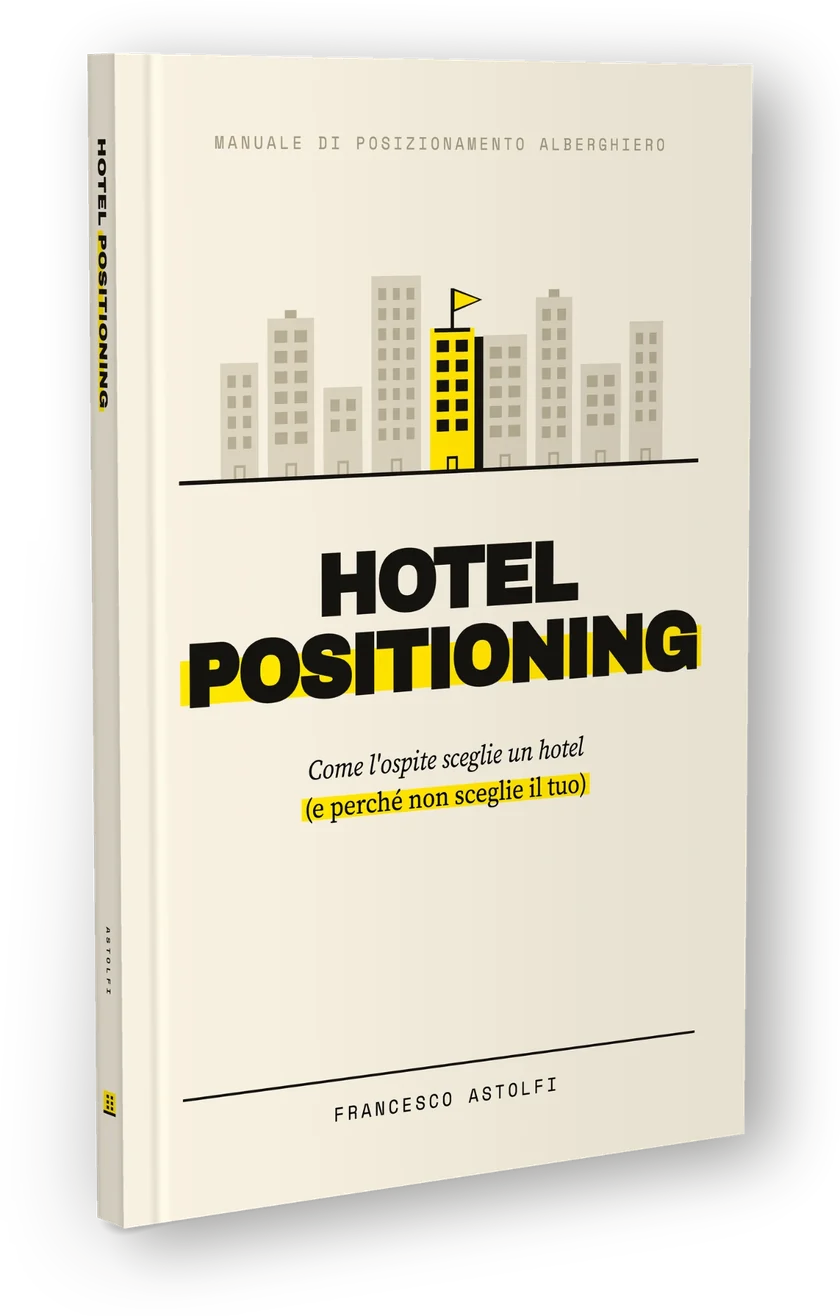
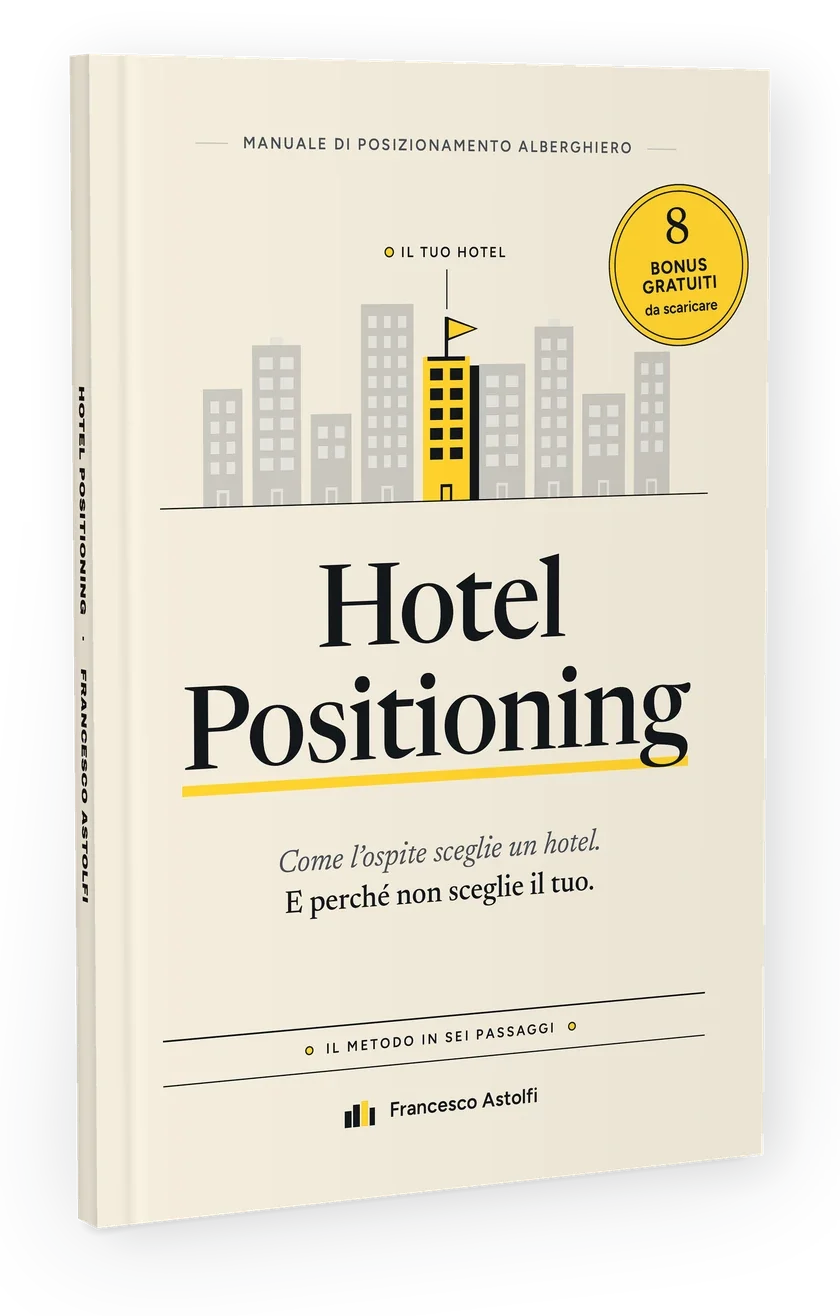
Copertina nuova del libro su tutto il sito (file con nome nuovo per non restare in cache)
libro-copertina.webp / @2x e libro-copertina-og.jpg al posto di libro-hotel-positioning
e libro-og.jpg; i vecchi file restano, con la copertina nuova, per le mail già inviate.

Claude-Session: https://claude.ai/code/session_01JA4Hpfw1L8q9e38L2BPrhj

Changed region(s): [[0.0619, 0.0312, 0.9286, 0.9658], [0.7429, 0.7789, 0.8357, 0.81]]

diff --git a/site/public/en/book/index.html b/site/public/en/book/index.html
@@ -7,7 +7,7 @@
 <meta name="description" content="Francesco Astolfi's handbook on hotel positioning, available in Italian only. 120 pages, a method in 6 steps, 200 attributes to set your hotel apart from similar ones. €19.90 on Amazon.it, Kindle too.">
 <link rel="canonical" href="https://hotelpositioning.com/en/book/">
 <meta property="og:title" content="Hotel Positioning: the method in six steps to get your hotel chosen."><meta property="og:description" content="Hotel Positioning, the handbook on hotel positioning (Italian edition). The method in six steps, the Silva and Veridia cases, 200 attributes. €19.90 on Amazon.it."><meta property="og:type" content="website">
-<meta property="og:image" content="https://hotelpositioning.com/assets/img/libro-og.jpg">
+<meta property="og:image" content="https://hotelpositioning.com/assets/img/libro-copertina-og.jpg">
 <script>/* ID di tracciamento: lasciare vuoto per disattivare. Partono solo dopo il consenso (vedi /assets/consent.js). */
 window.HP_TRACKING = { gtm: 'GTM-WPD3MZLM', ga4: '', metaPixel: '' };</script>
 <meta name="theme-color" content="#fffdf6">
@@ -16,12 +16,12 @@ window.HP_TRACKING = { gtm: 'GTM-WPD3MZLM', ga4: '', metaPixel: '' };</script>
 <link rel="preload" href="/assets/fonts/figtree.woff2" as="font" type="font/woff2" crossorigin>
 <meta property="og:site_name" content="Hotel Positioning">
 <meta property="og:locale" content="en_GB">
-<meta name="twitter:image" content="https://hotelpositioning.com/assets/img/libro-og.jpg">
+<meta name="twitter:image" content="https://hotelpositioning.com/assets/img/libro-copertina-og.jpg">
 <meta name="twitter:card" content="summary_large_image">
 <link rel="stylesheet" href="/assets/style.css?v=b3a8d31d">
 
 <script type="application/ld+json">
-{"@context":"https://schema.org","@type":"Book","name":"Hotel Positioning","alternativeHeadline":"Come l'ospite sceglie un hotel (e perché non sceglie il tuo)","genre":"Hotel positioning handbook","image":"https://hotelpositioning.com/assets/img/libro-hotel-positioning@2x.webp","author":{"@type":"Person","name":"Francesco Astolfi","url":"https://hotelpositioning.com/en/francesco/"},"inLanguage":"it","numberOfPages":120,"bookFormat":["https://schema.org/Paperback","https://schema.org/EBook"],"url":"https://hotelpositioning.com/en/book/","description":"The method in six steps to position an independent hotel and get it chosen at its own price. Italian edition.","offers":{"@type":"Offer","price":"19.90","priceCurrency":"EUR","availability":"https://schema.org/InStock","url":"https://www.amazon.it/dp/B0HL3Z4XL7/","seller":{"@type":"Organization","name":"Amazon"}}}
+{"@context":"https://schema.org","@type":"Book","name":"Hotel Positioning","alternativeHeadline":"Come l'ospite sceglie un hotel (e perché non sceglie il tuo)","genre":"Hotel positioning handbook","image":"https://hotelpositioning.com/assets/img/libro-copertina@2x.webp","author":{"@type":"Person","name":"Francesco Astolfi","url":"https://hotelpositioning.com/en/francesco/"},"inLanguage":"it","numberOfPages":120,"bookFormat":["https://schema.org/Paperback","https://schema.org/EBook"],"url":"https://hotelpositioning.com/en/book/","description":"The method in six steps to position an independent hotel and get it chosen at its own price. Italian edition.","offers":{"@type":"Offer","price":"19.90","priceCurrency":"EUR","availability":"https://schema.org/InStock","url":"https://www.amazon.it/dp/B0HL3Z4XL7/","seller":{"@type":"Organization","name":"Amazon"}}}
 </script>
 <style>
 /* --- apertura: una colonna centrata, copertina grande, prezzo, numeri --- */
@@ -167,7 +167,7 @@ window.HP_TRACKING = { gtm: 'GTM-WPD3MZLM', ga4: '', metaPixel: '' };</script>
         <p class="micro"><b>Paperback or Kindle.</b> If it isn't useful to you, Amazon refunds it within 14 days.</p>
       </div>
       <div class="book-stage">
-        <img class="book-img" src="/assets/img/libro-hotel-positioning.webp" srcset="/assets/img/libro-hotel-positioning.webp 420w, /assets/img/libro-hotel-positioning@2x.webp 840w" sizes="(max-width:860px) 52vw, 400px" width="420" height="658" fetchpriority="high" alt="Cover of the book Hotel Positioning. Come l'ospite sceglie un hotel (e perché non sceglie il tuo), by Francesco Astolfi. Italian edition">
+        <img class="book-img" src="/assets/img/libro-copertina.webp" srcset="/assets/img/libro-copertina.webp 420w, /assets/img/libro-copertina@2x.webp 840w" sizes="(max-width:860px) 52vw, 400px" width="420" height="658" fetchpriority="high" alt="Cover of the book Hotel Positioning. Come l'ospite sceglie un hotel (e perché non sceglie il tuo), by Francesco Astolfi. Italian edition">
         <span class="price-tag">€19.90<small>on Amazon</small></span>
       </div>
     </div>

diff --git a/site/public/libro/index.html b/site/public/libro/index.html
@@ -7,7 +7,7 @@
 <meta name="description" content="Il manuale di posizionamento alberghiero di Francesco Astolfi. 120 pagine, un metodo in 6 passaggi, 200 attributi per distinguere il tuo hotel da quelli simili. 19,90 € su Amazon, anche Kindle.">
 <link rel="canonical" href="https://hotelpositioning.com/libro/">
 <meta property="og:title" content="Hotel Positioning: il metodo in sei passaggi per far scegliere il tuo hotel."><meta property="og:description" content="Hotel Positioning, il manuale di posizionamento alberghiero. Il metodo in sei passaggi, i casi Silva e Veridia, 200 attributi. 19,90 € su Amazon."><meta property="og:type" content="website">
-<meta property="og:image" content="https://hotelpositioning.com/assets/img/libro-og.jpg">
+<meta property="og:image" content="https://hotelpositioning.com/assets/img/libro-copertina-og.jpg">
 <script>/* ID di tracciamento: lasciare vuoto per disattivare. Partono solo dopo il consenso (vedi /assets/consent.js). */
 window.HP_TRACKING = { gtm: 'GTM-WPD3MZLM', ga4: '', metaPixel: '' };</script>
 <meta name="theme-color" content="#fffdf6">
@@ -16,12 +16,12 @@ window.HP_TRACKING = { gtm: 'GTM-WPD3MZLM', ga4: '', metaPixel: '' };</script>
 <link rel="preload" href="/assets/fonts/figtree.woff2" as="font" type="font/woff2" crossorigin>
 <meta property="og:site_name" content="Hotel Positioning">
 <meta property="og:locale" content="it_IT">
-<meta name="twitter:image" content="https://hotelpositioning.com/assets/img/libro-og.jpg">
+<meta name="twitter:image" content="https://hotelpositioning.com/assets/img/libro-copertina-og.jpg">
 <meta name="twitter:card" content="summary_large_image">
 <link rel="stylesheet" href="/assets/style.css?v=b3a8d31d">
 
 <script type="application/ld+json">
-{"@context":"https://schema.org","@type":"Book","name":"Hotel Positioning","alternativeHeadline":"Come l'ospite sceglie un hotel (e perché non sceglie il tuo)","genre":"Manuale di posizionamento alberghiero","image":"https://hotelpositioning.com/assets/img/libro-hotel-positioning@2x.webp","author":{"@type":"Person","name":"Francesco Astolfi","url":"https://hotelpositioning.com/francesco/"},"inLanguage":"it","numberOfPages":120,"bookFormat":["https://schema.org/Paperback","https://schema.org/EBook"],"url":"https://hotelpositioning.com/libro/","description":"Il metodo in sei passaggi per posizionare un hotel indipendente e farlo scegliere al suo prezzo.","offers":{"@type":"Offer","price":"19.90","priceCurrency":"EUR","availability":"https://schema.org/InStock","url":"https://www.amazon.it/dp/B0HL3Z4XL7/","seller":{"@type":"Organization","name":"Amazon"}}}
+{"@context":"https://schema.org","@type":"Book","name":"Hotel Positioning","alternativeHeadline":"Come l'ospite sceglie un hotel (e perché non sceglie il tuo)","genre":"Manuale di posizionamento alberghiero","image":"https://hotelpositioning.com/assets/img/libro-copertina@2x.webp","author":{"@type":"Person","name":"Francesco Astolfi","url":"https://hotelpositioning.com/francesco/"},"inLanguage":"it","numberOfPages":120,"bookFormat":["https://schema.org/Paperback","https://schema.org/EBook"],"url":"https://hotelpositioning.com/libro/","description":"Il metodo in sei passaggi per posizionare un hotel indipendente e farlo scegliere al suo prezzo.","offers":{"@type":"Offer","price":"19.90","priceCurrency":"EUR","availability":"https://schema.org/InStock","url":"https://www.amazon.it/dp/B0HL3Z4XL7/","seller":{"@type":"Organization","name":"Amazon"}}}
 </script>
 <style>
 /* --- apertura: una colonna centrata, copertina grande, prezzo, numeri --- */
@@ -166,7 +166,7 @@ window.HP_TRACKING = { gtm: 'GTM-WPD3MZLM', ga4: '', metaPixel: '' };</script>
         <p class="micro"><b>Cartaceo o Kindle.</b> Se non ti è utile, Amazon lo rimborsa entro 14 giorni.</p>
       </div>
       <div class="book-stage">
-        <img class="book-img" src="/assets/img/libro-hotel-positioning.webp" srcset="/assets/img/libro-hotel-positioning.webp 420w, /assets/img/libro-hotel-positioning@2x.webp 840w" sizes="(max-width:860px) 52vw, 400px" width="420" height="658" fetchpriority="high" alt="Copertina del libro Hotel Positioning. Come l'ospite sceglie un hotel (e perché non sceglie il tuo), di Francesco Astolfi">
+        <img class="book-img" src="/assets/img/libro-copertina.webp" srcset="/assets/img/libro-copertina.webp 420w, /assets/img/libro-copertina@2x.webp 840w" sizes="(max-width:860px) 52vw, 400px" width="420" height="658" fetchpriority="high" alt="Copertina del libro Hotel Positioning. Come l'ospite sceglie un hotel (e perché non sceglie il tuo), di Francesco Astolfi">
         <span class="price-tag">19,90 €<small>su Amazon</small></span>
       </div>
     </div>

diff --git a/site/src/pages/en/book/index.html b/site/src/pages/en/book/index.html
@@ -7,10 +7,10 @@
 <meta name="description" content="Francesco Astolfi's handbook on hotel positioning, available in Italian only. 120 pages, a method in 6 steps, 200 attributes to set your hotel apart from similar ones. €19.90 on Amazon.it, Kindle too.">
 <link rel="canonical" href="https://hotelpositioning.com/en/book/">
 <meta property="og:title" content="Hotel Positioning: the method in six steps to get your hotel chosen."><meta property="og:description" content="Hotel Positioning, the handbook on hotel positioning (Italian edition). The method in six steps, the Silva and Veridia cases, 200 attributes. €19.90 on Amazon.it."><meta property="og:type" content="website">
-<meta property="og:image" content="https://hotelpositioning.com/assets/img/libro-og.jpg">
+<meta property="og:image" content="https://hotelpositioning.com/assets/img/libro-copertina-og.jpg">
 <!-- @include head-en -->
 <script type="application/ld+json">
-{"@context":"https://schema.org","@type":"Book","name":"Hotel Positioning","alternativeHeadline":"Come l'ospite sceglie un hotel (e perché non sceglie il tuo)","genre":"Hotel positioning handbook","image":"https://hotelpositioning.com/assets/img/libro-hotel-positioning@2x.webp","author":{"@type":"Person","name":"Francesco Astolfi","url":"https://hotelpositioning.com/en/francesco/"},"inLanguage":"it","numberOfPages":120,"bookFormat":["https://schema.org/Paperback","https://schema.org/EBook"],"url":"https://hotelpositioning.com/en/book/","description":"The method in six steps to position an independent hotel and get it chosen at its own price. Italian edition.","offers":{"@type":"Offer","price":"19.90","priceCurrency":"EUR","availability":"https://schema.org/InStock","url":"https://www.amazon.it/dp/B0HL3Z4XL7/","seller":{"@type":"Organization","name":"Amazon"}}}
+{"@context":"https://schema.org","@type":"Book","name":"Hotel Positioning","alternativeHeadline":"Come l'ospite sceglie un hotel (e perché non sceglie il tuo)","genre":"Hotel positioning handbook","image":"https://hotelpositioning.com/assets/img/libro-copertina@2x.webp","author":{"@type":"Person","name":"Francesco Astolfi","url":"https://hotelpositioning.com/en/francesco/"},"inLanguage":"it","numberOfPages":120,"bookFormat":["https://schema.org/Paperback","https://schema.org/EBook"],"url":"https://hotelpositioning.com/en/book/","description":"The method in six steps to position an independent hotel and get it chosen at its own price. Italian edition.","offers":{"@type":"Offer","price":"19.90","priceCurrency":"EUR","availability":"https://schema.org/InStock","url":"https://www.amazon.it/dp/B0HL3Z4XL7/","seller":{"@type":"Organization","name":"Amazon"}}}
 </script>
 <style>
 /* --- apertura: una colonna centrata, copertina grande, prezzo, numeri --- */
@@ -151,7 +151,7 @@
         <p class="micro"><b>Paperback or Kindle.</b> If it isn't useful to you, Amazon refunds it within 14 days.</p>
       </div>
       <div class="book-stage">
-        <img class="book-img" src="/assets/img/libro-hotel-positioning.webp" srcset="/assets/img/libro-hotel-positioning.webp 420w, /assets/img/libro-hotel-positioning@2x.webp 840w" sizes="(max-width:860px) 52vw, 400px" width="420" height="658" fetchpriority="high" alt="Cover of the book Hotel Positioning. Come l'ospite sceglie un hotel (e perché non sceglie il tuo), by Francesco Astolfi. Italian edition">
+        <img class="book-img" src="/assets/img/libro-copertina.webp" srcset="/assets/img/libro-copertina.webp 420w, /assets/img/libro-copertina@2x.webp 840w" sizes="(max-width:860px) 52vw, 400px" width="420" height="658" fetchpriority="high" alt="Cover of the book Hotel Positioning. Come l'ospite sceglie un hotel (e perché non sceglie il tuo), by Francesco Astolfi. Italian edition">
         <span class="price-tag">€19.90<small>on Amazon</small></span>
       </div>
     </div>

diff --git a/site/src/pages/libro/index.html b/site/src/pages/libro/index.html
@@ -7,10 +7,10 @@
 <meta name="description" content="Il manuale di posizionamento alberghiero di Francesco Astolfi. 120 pagine, un metodo in 6 passaggi, 200 attributi per distinguere il tuo hotel da quelli simili. 19,90 € su Amazon, anche Kindle.">
 <link rel="canonical" href="https://hotelpositioning.com/libro/">
 <meta property="og:title" content="Hotel Positioning: il metodo in sei passaggi per far scegliere il tuo hotel."><meta property="og:description" content="Hotel Positioning, il manuale di posizionamento alberghiero. Il metodo in sei passaggi, i casi Silva e Veridia, 200 attributi. 19,90 € su Amazon."><meta property="og:type" content="website">
-<meta property="og:image" content="https://hotelpositioning.com/assets/img/libro-og.jpg">
+<meta property="og:image" content="https://hotelpositioning.com/assets/img/libro-copertina-og.jpg">
 <!-- @include head -->
 <script type="application/ld+json">
-{"@context":"https://schema.org","@type":"Book","name":"Hotel Positioning","alternativeHeadline":"Come l'ospite sceglie un hotel (e perché non sceglie il tuo)","genre":"Manuale di posizionamento alberghiero","image":"https://hotelpositioning.com/assets/img/libro-hotel-positioning@2x.webp","author":{"@type":"Person","name":"Francesco Astolfi","url":"https://hotelpositioning.com/francesco/"},"inLanguage":"it","numberOfPages":120,"bookFormat":["https://schema.org/Paperback","https://schema.org/EBook"],"url":"https://hotelpositioning.com/libro/","description":"Il metodo in sei passaggi per posizionare un hotel indipendente e farlo scegliere al suo prezzo.","offers":{"@type":"Offer","price":"19.90","priceCurrency":"EUR","availability":"https://schema.org/InStock","url":"https://www.amazon.it/dp/B0HL3Z4XL7/","seller":{"@type":"Organization","name":"Amazon"}}}
+{"@context":"https://schema.org","@type":"Book","name":"Hotel Positioning","alternativeHeadline":"Come l'ospite sceglie un hotel (e perché non sceglie il tuo)","genre":"Manuale di posizionamento alberghiero","image":"https://hotelpositioning.com/assets/img/libro-copertina@2x.webp","author":{"@type":"Person","name":"Francesco Astolfi","url":"https://hotelpositioning.com/francesco/"},"inLanguage":"it","numberOfPages":120,"bookFormat":["https://schema.org/Paperback","https://schema.org/EBook"],"url":"https://hotelpositioning.com/libro/","description":"Il metodo in sei passaggi per posizionare un hotel indipendente e farlo scegliere al suo prezzo.","offers":{"@type":"Offer","price":"19.90","priceCurrency":"EUR","availability":"https://schema.org/InStock","url":"https://www.amazon.it/dp/B0HL3Z4XL7/","seller":{"@type":"Organization","name":"Amazon"}}}
 </script>
 <style>
 /* --- apertura: una colonna centrata, copertina grande, prezzo, numeri --- */
@@ -150,7 +150,7 @@
         <p class="micro"><b>Cartaceo o Kindle.</b> Se non ti è utile, Amazon lo rimborsa entro 14 giorni.</p>
       </div>
       <div class="book-stage">
-        <img class="book-img" src="/assets/img/libro-hotel-positioning.webp" srcset="/assets/img/libro-hotel-positioning.webp 420w, /assets/img/libro-hotel-positioning@2x.webp 840w" sizes="(max-width:860px) 52vw, 400px" width="420" height="658" fetchpriority="high" alt="Copertina del libro Hotel Positioning. Come l'ospite sceglie un hotel (e perché non sceglie il tuo), di Francesco Astolfi">
+        <img class="book-img" src="/assets/img/libro-copertina.webp" srcset="/assets/img/libro-copertina.webp 420w, /assets/img/libro-copertina@2x.webp 840w" sizes="(max-width:860px) 52vw, 400px" width="420" height="658" fetchpriority="high" alt="Copertina del libro Hotel Positioning. Come l'ospite sceglie un hotel (e perché non sceglie il tuo), di Francesco Astolfi">
         <span class="price-tag">19,90 €<small>su Amazon</small></span>
       </div>
     </div>

diff --git a/site/public/capitolo/index.html b/site/public/capitolo/index.html
@@ -8,7 +8,7 @@
 <meta name="description" content="Il primo capitolo di Hotel Positioning, gratis in PDF: perché su Booking cinquanta hotel sembrano uno, e il test dei dieci secondi per capire se succede anche al tuo.">
 <link rel="canonical" href="https://hotelpositioning.com/capitolo/">
 <meta property="og:title" content="Il tuo hotel non è poco conosciuto. È invisibile."><meta property="og:description" content="Il primo capitolo di Hotel Positioning, gratis in PDF nella tua email."><meta property="og:type" content="website">
-<meta property="og:image" content="https://hotelpositioning.com/assets/img/libro-og.jpg">
+<meta property="og:image" content="https://hotelpositioning.com/assets/img/libro-copertina-og.jpg">
 <script>/* ID di tracciamento: lasciare vuoto per disattivare. Partono solo dopo il consenso (vedi /assets/consent.js). */
 window.HP_TRACKING = { gtm: 'GTM-WPD3MZLM', ga4: '', metaPixel: '' };</script>
 <meta name="theme-color" content="#fffdf6">
@@ -17,7 +17,7 @@ window.HP_TRACKING = { gtm: 'GTM-WPD3MZLM', ga4: '', metaPixel: '' };</script>
 <link rel="preload" href="/assets/fonts/figtree.woff2" as="font" type="font/woff2" crossorigin>
 <meta property="og:site_name" content="Hotel Positioning">
 <meta property="og:locale" content="it_IT">
-<meta name="twitter:image" content="https://hotelpositioning.com/assets/img/libro-og.jpg">
+<meta name="twitter:image" content="https://hotelpositioning.com/assets/img/libro-copertina-og.jpg">
 <meta name="twitter:card" content="summary_large_image">
 <link rel="stylesheet" href="/assets/style.css?v=b3a8d31d">
 
@@ -145,7 +145,7 @@ window.HP_TRACKING = { gtm: 'GTM-WPD3MZLM', ga4: '', metaPixel: '' };</script>
     </div>
     <div class="cp-visual">
       <div class="cp-book">
-        <img src="/assets/img/libro-hotel-positioning.webp" srcset="/assets/img/libro-hotel-positioning.webp 420w, /assets/img/libro-hotel-positioning@2x.webp 840w" sizes="(max-width:860px) 200px, 340px" width="420" height="658" fetchpriority="high" alt="Copertina del libro Hotel Positioning di Francesco Astolfi">
+        <img src="/assets/img/libro-copertina.webp" srcset="/assets/img/libro-copertina.webp 420w, /assets/img/libro-copertina@2x.webp 840w" sizes="(max-width:860px) 200px, 340px" width="420" height="658" fetchpriority="high" alt="Copertina del libro Hotel Positioning di Francesco Astolfi">
         <span class="cp-badge">Cap. 1<small>gratis in PDF</small></span>
         <div class="cp-page" aria-hidden="true"><b>Capitolo 1</b><p>L'hotel invisibile</p><i></i><i></i><i></i></div>
       </div>

diff --git a/site/public/capitolo/grazie/index.html b/site/public/capitolo/grazie/index.html
@@ -66,7 +66,7 @@ window.HP_TRACKING = { gtm: 'GTM-WPD3MZLM', ga4: '', metaPixel: '' };</script>
     <p class="lead">Venti minuti di lettura. Ti ho mandato anche una mail con il link, così lo ritrovi da qualsiasi dispositivo.</p>
     <p class="gz-spam">Se non la vedi tra cinque minuti, guarda nella cartella «Promozioni» o «Spam».</p>
     <div class="gz-pdf">
-      <img src="/assets/img/libro-hotel-positioning.webp" width="420" height="658" alt="Copertina del libro Hotel Positioning">
+      <img src="/assets/img/libro-copertina.webp" width="420" height="658" alt="Copertina del libro Hotel Positioning">
       <div>
         <p><b>Le pesche di mio nonno, e L'hotel invisibile.</b> In fondo c'è il test dei dieci secondi: fallo stasera, con qualcuno che non conosce il tuo hotel.</p>
         <a href="/assets/capitolo/hotel-positioning-capitolo-1.pdf" class="btn" target="_blank" rel="noopener">Apri il capitolo (PDF) <span class="arr">→</span></a>
@@ -77,7 +77,7 @@ window.HP_TRACKING = { gtm: 'GTM-WPD3MZLM', ga4: '', metaPixel: '' };</script>
 
 <section class="sec white gz-book">
   <div class="wrap gz-book-grid">
-    <img src="/assets/img/libro-hotel-positioning.webp" srcset="/assets/img/libro-hotel-positioning.webp 420w, /assets/img/libro-hotel-positioning@2x.webp 840w" sizes="(max-width:860px) 50vw, 320px" width="420" height="658" loading="lazy" alt="Copertina del libro Hotel Positioning di Francesco Astolfi">
+    <img src="/assets/img/libro-copertina.webp" srcset="/assets/img/libro-copertina.webp 420w, /assets/img/libro-copertina@2x.webp 840w" sizes="(max-width:860px) 50vw, 320px" width="420" height="658" loading="lazy" alt="Copertina del libro Hotel Positioning di Francesco Astolfi">
     <div>
       <div class="sec-head" style="margin-bottom:22px">
         <span class="num-tag">Il libro</span>

diff --git a/site/src/pages/capitolo/index.html b/site/src/pages/capitolo/index.html
@@ -8,7 +8,7 @@
 <meta name="description" content="Il primo capitolo di Hotel Positioning, gratis in PDF: perché su Booking cinquanta hotel sembrano uno, e il test dei dieci secondi per capire se succede anche al tuo.">
 <link rel="canonical" href="https://hotelpositioning.com/capitolo/">
 <meta property="og:title" content="Il tuo hotel non è poco conosciuto. È invisibile."><meta property="og:description" content="Il primo capitolo di Hotel Positioning, gratis in PDF nella tua email."><meta property="og:type" content="website">
-<meta property="og:image" content="https://hotelpositioning.com/assets/img/libro-og.jpg">
+<meta property="og:image" content="https://hotelpositioning.com/assets/img/libro-copertina-og.jpg">
 <!-- @include head -->
 <style>
 /* landing della campagna: testata con il solo logo, un solo bottone ripetuto */
@@ -132,7 +132,7 @@
     </div>
     <div class="cp-visual">
       <div class="cp-book">
-        <img src="/assets/img/libro-hotel-positioning.webp" srcset="/assets/img/libro-hotel-positioning.webp 420w, /assets/img/libro-hotel-positioning@2x.webp 840w" sizes="(max-width:860px) 200px, 340px" width="420" height="658" fetchpriority="high" alt="Copertina del libro Hotel Positioning di Francesco Astolfi">
+        <img src="/assets/img/libro-copertina.webp" srcset="/assets/img/libro-copertina.webp 420w, /assets/img/libro-copertina@2x.webp 840w" sizes="(max-width:860px) 200px, 340px" width="420" height="658" fetchpriority="high" alt="Copertina del libro Hotel Positioning di Francesco Astolfi">
         <span class="cp-badge">Cap. 1<small>gratis in PDF</small></span>
         <div class="cp-page" aria-hidden="true"><b>Capitolo 1</b><p>L'hotel invisibile</p><i></i><i></i><i></i></div>
       </div>

diff --git a/site/src/pages/capitolo/grazie/index.html b/site/src/pages/capitolo/grazie/index.html
@@ -50,7 +50,7 @@
     <p class="lead">Venti minuti di lettura. Ti ho mandato anche una mail con il link, così lo ritrovi da qualsiasi dispositivo.</p>
     <p class="gz-spam">Se non la vedi tra cinque minuti, guarda nella cartella «Promozioni» o «Spam».</p>
     <div class="gz-pdf">
-      <img src="/assets/img/libro-hotel-positioning.webp" width="420" height="658" alt="Copertina del libro Hotel Positioning">
+      <img src="/assets/img/libro-copertina.webp" width="420" height="658" alt="Copertina del libro Hotel Positioning">
       <div>
         <p><b>Le pesche di mio nonno, e L'hotel invisibile.</b> In fondo c'è il test dei dieci secondi: fallo stasera, con qualcuno che non conosce il tuo hotel.</p>
         <a href="/assets/capitolo/hotel-positioning-capitolo-1.pdf" class="btn" target="_blank" rel="noopener">Apri il capitolo (PDF) <span class="arr">→</span></a>
@@ -61,7 +61,7 @@
 
 <section class="sec white gz-book">
   <div class="wrap gz-book-grid">
-    <img src="/assets/img/libro-hotel-positioning.webp" srcset="/assets/img/libro-hotel-positioning.webp 420w, /assets/img/libro-hotel-positioning@2x.webp 840w" sizes="(max-width:860px) 50vw, 320px" width="420" height="658" loading="lazy" alt="Copertina del libro Hotel Positioning di Francesco Astolfi">
+    <img src="/assets/img/libro-copertina.webp" srcset="/assets/img/libro-copertina.webp 420w, /assets/img/libro-copertina@2x.webp 840w" sizes="(max-width:860px) 50vw, 320px" width="420" height="658" loading="lazy" alt="Copertina del libro Hotel Positioning di Francesco Astolfi">
     <div>
       <div class="sec-head" style="margin-bottom:22px">
         <span class="num-tag">Il libro</span>

diff --git a/site/public/guida-hotel-romagna/index.html b/site/public/guida-hotel-romagna/index.html
@@ -8,7 +8,7 @@
 <meta name="description" content="Una guida gratuita per gli hotel della Romagna: la formula del valore, e la voce che ti tiene sul prezzo. Dieci minuti, una penna.">
 <link rel="canonical" href="https://hotelpositioning.com/guida-hotel-romagna/">
 <meta property="og:title" content="Il mare ce l'hanno tutti. Il motivo, no."><meta property="og:description" content="Una guida gratuita per gli hotel della Romagna: la formula del valore, e la voce che ti tiene sul prezzo. Dieci minuti, una penna."><meta property="og:type" content="website">
-<meta property="og:image" content="https://hotelpositioning.com/assets/img/libro-og.jpg">
+<meta property="og:image" content="https://hotelpositioning.com/assets/img/libro-copertina-og.jpg">
 <script>/* ID di tracciamento: lasciare vuoto per disattivare. Partono solo dopo il consenso (vedi /assets/consent.js). */
 window.HP_TRACKING = { gtm: 'GTM-WPD3MZLM', ga4: '', metaPixel: '' };</script>
 <meta name="theme-color" content="#fffdf6">
@@ -17,7 +17,7 @@ window.HP_TRACKING = { gtm: 'GTM-WPD3MZLM', ga4: '', metaPixel: '' };</script>
 <link rel="preload" href="/assets/fonts/figtree.woff2" as="font" type="font/woff2" crossorigin>
 <meta property="og:site_name" content="Hotel Positioning">
 <meta property="og:locale" content="it_IT">
-<meta name="twitter:image" content="https://hotelpositioning.com/assets/img/libro-og.jpg">
+<meta name="twitter:image" content="https://hotelpositioning.com/assets/img/libro-copertina-og.jpg">
 <meta name="twitter:card" content="summary_large_image">
 <link rel="stylesheet" href="/assets/style.css?v=b3a8d31d">
 

diff --git a/site/public/guida/conti/index.html b/site/public/guida/conti/index.html
@@ -8,7 +8,7 @@
 <meta name="description" content="Paghi Booking, paghi l'agenzia e ogni stagione riparti da zero? Una guida gratuita per capire che hotel sei e quale leva sposta davvero il tuo fatturato.">
 <link rel="canonical" href="https://hotelpositioning.com/guida/conti/">
 <meta property="og:title" content="Booking, l'agenzia, lo sconto. Il tuo hotel paga tutti."><meta property="og:description" content="Una guida gratuita di 18 pagine per capire che hotel sei, e da dove partire. Si legge in mezz'ora."><meta property="og:type" content="website">
-<meta property="og:image" content="https://hotelpositioning.com/assets/img/libro-og.jpg">
+<meta property="og:image" content="https://hotelpositioning.com/assets/img/libro-copertina-og.jpg">
 <script>/* ID di tracciamento: lasciare vuoto per disattivare. Partono solo dopo il consenso (vedi /assets/consent.js). */
 window.HP_TRACKING = { gtm: 'GTM-WPD3MZLM', ga4: '', metaPixel: '' };</script>
 <meta name="theme-color" content="#fffdf6">
@@ -17,7 +17,7 @@ window.HP_TRACKING = { gtm: 'GTM-WPD3MZLM', ga4: '', metaPixel: '' };</script>
 <link rel="preload" href="/assets/fonts/figtree.woff2" as="font" type="font/woff2" crossorigin>
 <meta property="og:site_name" content="Hotel Positioning">
 <meta property="og:locale" content="it_IT">
-<meta name="twitter:image" content="https://hotelpositioning.com/assets/img/libro-og.jpg">
+<meta name="twitter:image" content="https://hotelpositioning.com/assets/img/libro-copertina-og.jpg">
 <meta name="twitter:card" content="summary_large_image">
 <link rel="stylesheet" href="/assets/style.css?v=b3a8d31d">
 

diff --git a/site/public/guida/index.html b/site/public/guida/index.html
@@ -8,7 +8,7 @@
 <meta name="description" content="Quanto vale il tuo hotel agli occhi dell'ospite? La formula del valore in una guida gratuita: calcoli il tuo punteggio su 40 in dieci minuti.">
 <link rel="canonical" href="https://hotelpositioning.com/guida/">
 <meta property="og:title" content="Il prezzo lo decidi tu. Il valore no."><meta property="og:description" content="Lo decide l'ospite, con un conto di quattro voci. La formula è in una guida gratuita: il tuo punteggio su 40 in dieci minuti."><meta property="og:type" content="website">
-<meta property="og:image" content="https://hotelpositioning.com/assets/img/libro-og.jpg">
+<meta property="og:image" content="https://hotelpositioning.com/assets/img/libro-copertina-og.jpg">
 <script>/* ID di tracciamento: lasciare vuoto per disattivare. Partono solo dopo il consenso (vedi /assets/consent.js). */
 window.HP_TRACKING = { gtm: 'GTM-WPD3MZLM', ga4: '', metaPixel: '' };</script>
 <meta name="theme-color" content="#fffdf6">
@@ -17,7 +17,7 @@ window.HP_TRACKING = { gtm: 'GTM-WPD3MZLM', ga4: '', metaPixel: '' };</script>
 <link rel="preload" href="/assets/fonts/figtree.woff2" as="font" type="font/woff2" crossorigin>
 <meta property="og:site_name" content="Hotel Positioning">
 <meta property="og:locale" content="it_IT">
-<meta name="twitter:image" content="https://hotelpositioning.com/assets/img/libro-og.jpg">
+<meta name="twitter:image" content="https://hotelpositioning.com/assets/img/libro-copertina-og.jpg">
 <meta name="twitter:card" content="summary_large_image">
 <link rel="stylesheet" href="/assets/style.css?v=b3a8d31d">
 

diff --git a/site/public/cassetta/index.html b/site/public/cassetta/index.html
@@ -8,7 +8,7 @@
 <meta name="description" content="Otto fogli di lavoro per trovare il motivo per cui l'ospite sceglie il tuo hotel. Dieci minuti l'uno, gratis. Gli strumenti del libro Hotel Positioning.">
 <link rel="canonical" href="https://hotelpositioning.com/cassetta/">
 <meta property="og:title" content="Apri Booking. Cerca la tua zona. Trova il tuo hotel."><meta property="og:description" content="Otto strumenti per trovare il motivo per cui ti scelgono. Dieci minuti l'uno, gratis."><meta property="og:type" content="website">
-<meta property="og:image" content="https://hotelpositioning.com/assets/img/libro-og.jpg">
+<meta property="og:image" content="https://hotelpositioning.com/assets/img/libro-copertina-og.jpg">
 <script>/* ID di tracciamento: lasciare vuoto per disattivare. Partono solo dopo il consenso (vedi /assets/consent.js). */
 window.HP_TRACKING = { gtm: 'GTM-WPD3MZLM', ga4: '', metaPixel: '' };</script>
 <meta name="theme-color" content="#fffdf6">
@@ -17,7 +17,7 @@ window.HP_TRACKING = { gtm: 'GTM-WPD3MZLM', ga4: '', metaPixel: '' };</script>
 <link rel="preload" href="/assets/fonts/figtree.woff2" as="font" type="font/woff2" crossorigin>
 <meta property="og:site_name" content="Hotel Positioning">
 <meta property="og:locale" content="it_IT">
-<meta name="twitter:image" content="https://hotelpositioning.com/assets/img/libro-og.jpg">
+<meta name="twitter:image" content="https://hotelpositioning.com/assets/img/libro-copertina-og.jpg">
 <meta name="twitter:card" content="summary_large_image">
 <link rel="stylesheet" href="/assets/style.css?v=b3a8d31d">
 
